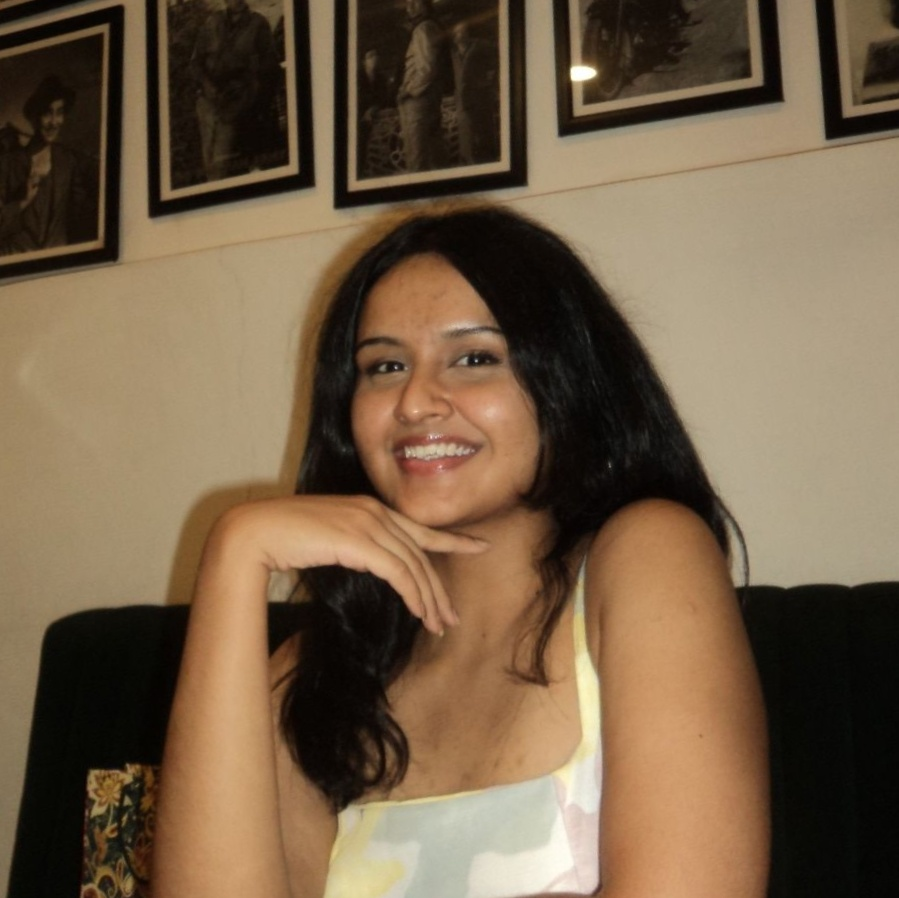
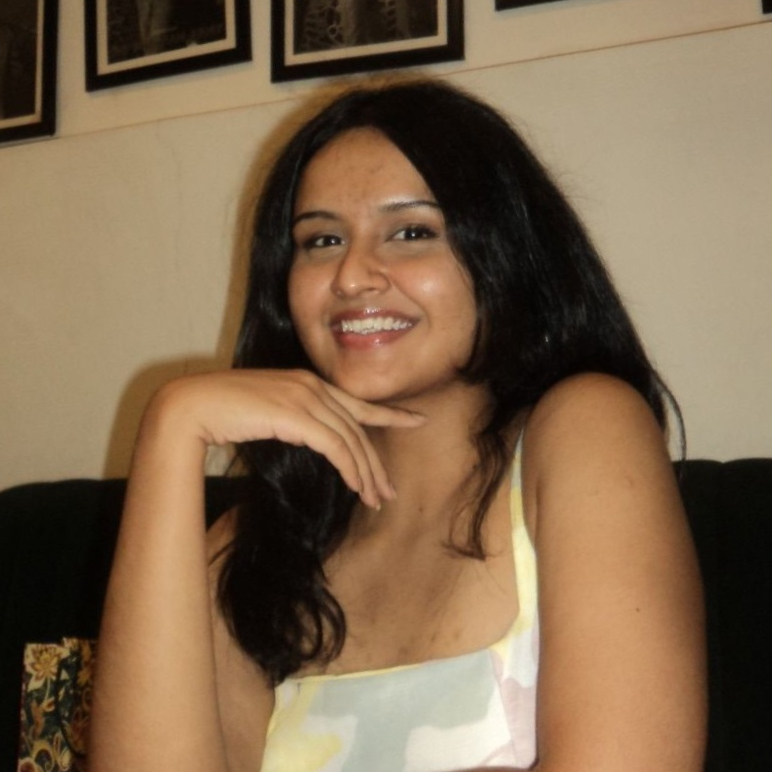
feat: float hero image, dull file extensions, sidebar rules, scholar link
- about hero uses float so all hero text wraps beside the square image
  and continues below it, left-aligned (flex can't do text wrap-around)
- image square via aspect-ratio at every width; source cropped 7% per
  side and 14% off the top for tighter framing (899x898 -> 772x772)
- file extensions (.md/.json/.py) dulled via opacity so they stay a
  shade behind the section name in every state and both themes
- faint rules between sidebar nav entries
- Google Scholar link added to sidebar profiles

diff --git a/index.html b/index.html
@@ -67,34 +67,34 @@
 
       <nav class="sb-nav">
         <div class="sb-nav-item active" onclick="openTab('about')">
-          <span class="ico"><svg width="1em" height="1em"><use href="#ico-user"/></svg></span><span>about.md</span>
+          <span class="ico"><svg width="1em" height="1em"><use href="#ico-user"/></svg></span><span>about<span class="ext">.md</span></span>
         </div>
         <div class="sb-nav-item" onclick="openTab('experience')">
-          <span class="ico"><svg width="1em" height="1em"><use href="#ico-briefcase"/></svg></span><span>experience.json</span>
+          <span class="ico"><svg width="1em" height="1em"><use href="#ico-briefcase"/></svg></span><span>experience<span class="ext">.json</span></span>
         </div>
         <div class="sb-nav-item" onclick="openTab('research')">
-          <span class="ico"><svg width="1em" height="1em"><use href="#ico-flask"/></svg></span><span>research.md</span>
+          <span class="ico"><svg width="1em" height="1em"><use href="#ico-flask"/></svg></span><span>research<span class="ext">.md</span></span>
         </div>
         <div class="sb-nav-item" onclick="openTab('projects')">
-          <span class="ico"><svg width="1em" height="1em"><use href="#ico-code"/></svg></span><span>projects.py</span>
+          <span class="ico"><svg width="1em" height="1em"><use href="#ico-code"/></svg></span><span>projects<span class="ext">.py</span></span>
         </div>
         <div class="sb-nav-item" onclick="openTab('honours')">
-          <span class="ico"><svg width="1em" height="1em"><use href="#ico-trophy"/></svg></span><span>honours.md</span>
+          <span class="ico"><svg width="1em" height="1em"><use href="#ico-trophy"/></svg></span><span>honours<span class="ext">.md</span></span>
         </div>
         <div class="sb-nav-item" onclick="openTab('certifications')">
-          <span class="ico"><svg width="1em" height="1em"><use href="#ico-school"/></svg></span><span>certifications.md</span>
+          <span class="ico"><svg width="1em" height="1em"><use href="#ico-school"/></svg></span><span>certifications<span class="ext">.md</span></span>
         </div>
         <div class="sb-nav-item" onclick="openTab('courses')">
-          <span class="ico"><svg width="1em" height="1em"><use href="#ico-code"/></svg></span><span>courses.md</span>
+          <span class="ico"><svg width="1em" height="1em"><use href="#ico-code"/></svg></span><span>courses<span class="ext">.md</span></span>
         </div>
         <div class="sb-nav-item" onclick="openTab('education')">
-          <span class="ico"><svg width="1em" height="1em"><use href="#ico-school"/></svg></span><span>education.md</span>
+          <span class="ico"><svg width="1em" height="1em"><use href="#ico-school"/></svg></span><span>education<span class="ext">.md</span></span>
         </div>
         <div class="sb-nav-item" onclick="openTab('skills')">
-          <span class="ico"><svg width="1em" height="1em"><use href="#ico-cpu"/></svg></span><span>skills.json</span>
+          <span class="ico"><svg width="1em" height="1em"><use href="#ico-cpu"/></svg></span><span>skills<span class="ext">.json</span></span>
         </div>
         <div class="sb-nav-item" onclick="openTab('organisations')">
-          <span class="ico"><svg width="1em" height="1em"><use href="#ico-user"/></svg></span><span>organisations.md</span>
+          <span class="ico"><svg width="1em" height="1em"><use href="#ico-user"/></svg></span><span>organisations<span class="ext">.md</span></span>
         </div>
       </nav>
 
@@ -109,6 +109,7 @@
           <div class="sb-block-label">// profiles</div>
           <div class="sb-plink-row"><a href="https://github.com/Silvermysti" target="_blank" class="sb-plink"><span class="ico"><svg width="1em" height="1em"><use href="#ico-github"/></svg></span>github.com/Silvermysti</a><button class="copy-btn" onclick="copyVal(this,'https://github.com/Silvermysti')" title="Copy URL"><svg width="1em" height="1em"><use href="#ico-copy"/></svg></button></div>
           <div class="sb-plink-row"><a href="https://www.linkedin.com/in/breeti/" target="_blank" class="sb-plink"><span class="ico"><svg width="1em" height="1em"><use href="#ico-linkedin"/></svg></span>in/breeti</a><button class="copy-btn" onclick="copyVal(this,'https://www.linkedin.com/in/breeti/')" title="Copy URL"><svg width="1em" height="1em"><use href="#ico-copy"/></svg></button></div>
+          <div class="sb-plink-row"><a href="https://scholar.google.com/citations?user=y_5PYu8AAAAJ&amp;hl=en" target="_blank" class="sb-plink"><span class="ico"><svg width="1em" height="1em"><use href="#ico-flask"/></svg></span>scholar.google.com</a><button class="copy-btn" onclick="copyVal(this,'https://scholar.google.com/citations?user=y_5PYu8AAAAJ&amp;hl=en')" title="Copy URL"><svg width="1em" height="1em"><use href="#ico-copy"/></svg></button></div>
           <div class="sb-plink-row"><a href="https://www.credly.com/users/breeti" target="_blank" class="sb-plink"><span class="ico"><svg width="1em" height="1em"><use href="#ico-school"/></svg></span>credly.com/breeti</a><button class="copy-btn" onclick="copyVal(this,'https://www.credly.com/users/breeti')" title="Copy URL"><svg width="1em" height="1em"><use href="#ico-copy"/></svg></button></div>
         </div>
       </div>
@@ -131,15 +132,13 @@
           <!-- hero -->
           <div class="about-hero">
             <img class="about-avatar" src="profile.png" alt="Breeti Bandyopadhyay">
-            <div class="about-hero-text">
-              <div class="about-greet">$ whoami · hi, I'm 👋</div>
-              <div class="about-h">Breeti <span>Bandyopadhyay</span></div>
-              <div class="about-role">$ cse @ shiv nadar university · 2024–2028</div>
-              <div class="about-bio">
-                <p>I'm a 2nd-year CS student (CGPA 9.25, Dean's List) who likes building things that actually run: <strong>LLM agent systems</strong>, machine-learning models, and the occasional computer-vision experiment.</p>
-                <p>Right now I'm a full-stack dev intern at <strong>Tech Mahindra</strong>, building multi-agent LLM pipelines. Before that I co-authored <strong>two computational-materials papers</strong> (Int. J. Hydrogen Energy, IF 8.3, and Surfaces &amp; Interfaces) and trained deep-learning models at a 5G research lab.</p>
-                <p>Off the clock I ship side projects: <strong>17 public repos</strong> and counting. Always up for research and engineering opportunities.</p>
-              </div>
+            <div class="about-greet">$ whoami · hi, I'm 👋</div>
+            <div class="about-h">Breeti <span>Bandyopadhyay</span></div>
+            <div class="about-role">$ cse @ shiv nadar university · 2024–2028</div>
+            <div class="about-bio">
+              <p>I'm a 2nd-year CS student (CGPA 9.25, Dean's List) who likes building things that actually run: <strong>LLM agent systems</strong>, machine-learning models, and the occasional computer-vision experiment.</p>
+              <p>Right now I'm a full-stack dev intern at <strong>Tech Mahindra</strong>, building multi-agent LLM pipelines. Before that I co-authored <strong>two computational-materials papers</strong> (Int. J. Hydrogen Energy, IF 8.3, and Surfaces &amp; Interfaces) and trained deep-learning models at a 5G research lab.</p>
+              <p>Off the clock I ship side projects: <strong>17 public repos</strong> and counting. Always up for research and engineering opportunities.</p>
             </div>
           </div>
 
@@ -150,7 +149,7 @@
           <div class="rs-sec" onclick="openTab('education')">
             <div class="rs-sec-head">
               <span class="rs-sec-label"><span class="ico"><svg width="14" height="14"><use href="#ico-school"/></svg></span>education</span>
-              <span class="rs-sec-link">education.md →</span>
+              <span class="rs-sec-link">education<span class="ext">.md</span> →</span>
             </div>
             <div class="rs-row">
               <div class="rs-row-left">
@@ -181,7 +180,7 @@
           <div class="rs-sec" onclick="openTab('experience')">
             <div class="rs-sec-head">
               <span class="rs-sec-label"><span class="ico"><svg width="1em" height="1em"><use href="#ico-briefcase"/></svg></span>experience</span>
-              <span class="rs-sec-link">experience.json →</span>
+              <span class="rs-sec-link">experience<span class="ext">.json</span> →</span>
             </div>
             <div class="rs-row">
               <div class="rs-row-left">
@@ -247,7 +246,7 @@
           <div class="rs-sec" onclick="openTab('research')">
             <div class="rs-sec-head">
               <span class="rs-sec-label"><span class="ico"><svg width="1em" height="1em"><use href="#ico-flask"/></svg></span>research</span>
-              <span class="rs-sec-link">research.md →</span>
+              <span class="rs-sec-link">research<span class="ext">.md</span> →</span>
             </div>
             <div class="rs-row">
               <div class="rs-row-left">
@@ -281,7 +280,7 @@
           <div class="rs-sec" onclick="openTab('projects')">
             <div class="rs-sec-head">
               <span class="rs-sec-label"><span class="ico"><svg width="1em" height="1em"><use href="#ico-code"/></svg></span>projects</span>
-              <span class="rs-sec-link">projects.py →</span>
+              <span class="rs-sec-link">projects<span class="ext">.py</span> →</span>
             </div>
             <div class="rs-row">
               <div class="rs-row-left">
@@ -325,7 +324,7 @@
           <div class="rs-sec" onclick="openTab('skills')">
             <div class="rs-sec-head">
               <span class="rs-sec-label"><span class="ico"><svg width="1em" height="1em"><use href="#ico-cpu"/></svg></span>skills</span>
-              <span class="rs-sec-link">skills.json →</span>
+              <span class="rs-sec-link">skills<span class="ext">.json</span> →</span>
             </div>
             <div class="rs-skills-row">
               <span class="rs-skill-cat">Languages</span>
@@ -353,7 +352,7 @@
           <div class="rs-sec" onclick="openTab('honours')">
             <div class="rs-sec-head">
               <span class="rs-sec-label"><span class="ico"><svg width="1em" height="1em"><use href="#ico-trophy"/></svg></span>honours</span>
-              <span class="rs-sec-link">honours.md →</span>
+              <span class="rs-sec-link">honours<span class="ext">.md</span> →</span>
             </div>
             <div class="rs-inline-list">
               <div class="rs-inline-item">
@@ -373,7 +372,7 @@
           <div class="rs-sec" onclick="openTab('certifications')">
             <div class="rs-sec-head">
               <span class="rs-sec-label"><span class="ico"><svg width="1em" height="1em"><use href="#ico-school"/></svg></span>certifications</span>
-              <span class="rs-sec-link">certifications.md →</span>
+              <span class="rs-sec-link">certifications<span class="ext">.md</span> →</span>
             </div>
             <div class="rs-inline-list">
               <div class="rs-inline-item">
@@ -395,7 +394,7 @@
           <div class="rs-sec" onclick="openTab('organisations')">
             <div class="rs-sec-head">
               <span class="rs-sec-label"><span class="ico"><svg width="1em" height="1em"><use href="#ico-user"/></svg></span>organisations</span>
-              <span class="rs-sec-link">organisations.md →</span>
+              <span class="rs-sec-link">organisations<span class="ext">.md</span> →</span>
             </div>
             <div class="rs-row">
               <div class="rs-row-left">

diff --git a/style.css b/style.css
@@ -1,6 +1,10 @@
 /* Breeti Bandyopadhyay — Portfolio Styles */
 
 .ico { display:inline-flex; align-items:center; justify-content:center; flex-shrink:0; }
+/* File extension sits a shade behind the section name it trails.
+   Opacity rather than a colour, so it stays duller in every state. */
+.ext { opacity: 0.55; }
+
 .ico svg { stroke:currentColor; fill:none; stroke-width:1.8; stroke-linecap:round; stroke-linejoin:round; display:block; overflow:visible; }
 
 
@@ -169,6 +173,9 @@ input, textarea, select { cursor: text; }
   font-family: var(--font-mono); border-left: 3px solid transparent;
   transition: all 0.18s ease; user-select: none;
 }
+/* Faint rule between nav entries; the last is skipped so it doesn't
+   double up with the border on .sb-bottom. */
+.sb-nav-item:not(:last-child) { border-bottom: 1.5px solid var(--border); }
 .sb-nav-item:hover {
   color: var(--text-hi); font-weight: 600;
   background: var(--nav-active);
@@ -517,25 +524,24 @@ a.research-doi:hover { color: var(--accent); }
 }
 
 /* avatar-style monogram in sidebar top */
-.about-hero {
-  display: flex;
-  gap: 24px;
-  align-items: stretch;
-  margin-bottom: 24px;
-}
+.about-hero { margin-bottom: 24px; }
+/* Contain the floated image so it can't hang below the hero. */
+.about-hero::after { content: ''; display: block; clear: both; }
+/* Floated rather than flexed: the bio runs alongside the image and then
+   carries on underneath it once it passes the bottom edge. */
 .about-avatar {
-  flex-shrink: 0;
-  width: 160px;
+  float: left;
+  width: clamp(120px, 24vw, 240px);
+  aspect-ratio: 1;                /* square at every screen size */
+  margin: 4px 22px 14px 0;
   border-radius: 16px;
   border: 2px solid var(--accent);
   box-shadow: 0 4px 18px -4px color-mix(in srgb, var(--accent) 50%, transparent);
   object-fit: cover;
   object-position: center top;
   display: block;
-  align-self: stretch;
   cursor: inherit;
 }
-.about-hero-text { flex: 1; min-width: 0; }
 
 /* ── MOBILE BREAKPOINTS ── */
 @media (max-width: 900px) {
@@ -548,8 +554,6 @@ a.research-doi:hover { color: var(--accent); }
   .rs-row-right { text-align: left; }
   .tl-meta { flex-direction: column; gap: 2px; }
   .research-top { flex-direction: column; }
-  .about-hero { flex-direction: column; }
-  .about-avatar { width: 100%; height: 220px; }
 }
 .ov-hint {
   display: flex; align-items: center; gap: 8px;
@@ -597,7 +601,6 @@ body, .shell, .sb, .titlebar, .mc-tabs, .mc-body, .sb-top, .sb-nav-item,
   .layout { grid-template-columns: 56px 1fr; }
   .sb-top { padding: 12px 8px; display: flex; flex-direction: column; align-items: center; gap: 6px; }
   .sb-name, .sb-role, .sb-badge { display: none; }
-  .about-avatar { width: 120px; }
   .sb-nav-item { padding: 10px 0; justify-content: center; gap: 0; }
   .sb-nav-item:hover { padding-left: 0; }
   .sb-nav-item .ico svg { width: 20px; height: 20px; }

diff --git a/script.js b/script.js
@@ -35,7 +35,7 @@
       const t = TABS[id];
       const el = document.createElement('div');
       el.className = 'mc-tab' + (id === activeTab ? ' active' : '');
-      el.innerHTML = `<span class="ico"><svg width="13" height="13" style="stroke:currentColor;fill:none;stroke-width:1.8;stroke-linecap:round;stroke-linejoin:round"><use href="#${t.icon}"/></svg></span>${t.label}<span class="tab-close" onclick="closeTab(event,'${id}')">✕</span>`;
+      el.innerHTML = `<span class="ico"><svg width="13" height="13" style="stroke:currentColor;fill:none;stroke-width:1.8;stroke-linecap:round;stroke-linejoin:round"><use href="#${t.icon}"/></svg></span><span>${t.label.replace(/(\.\w+)$/, '<span class="ext">$1</span>')}</span><span class="tab-close" onclick="closeTab(event,'${id}')">✕</span>`;
       el.addEventListener('click', (e) => {
         if (!e.target.classList.contains('tab-close')) switchTab(id);
       });
